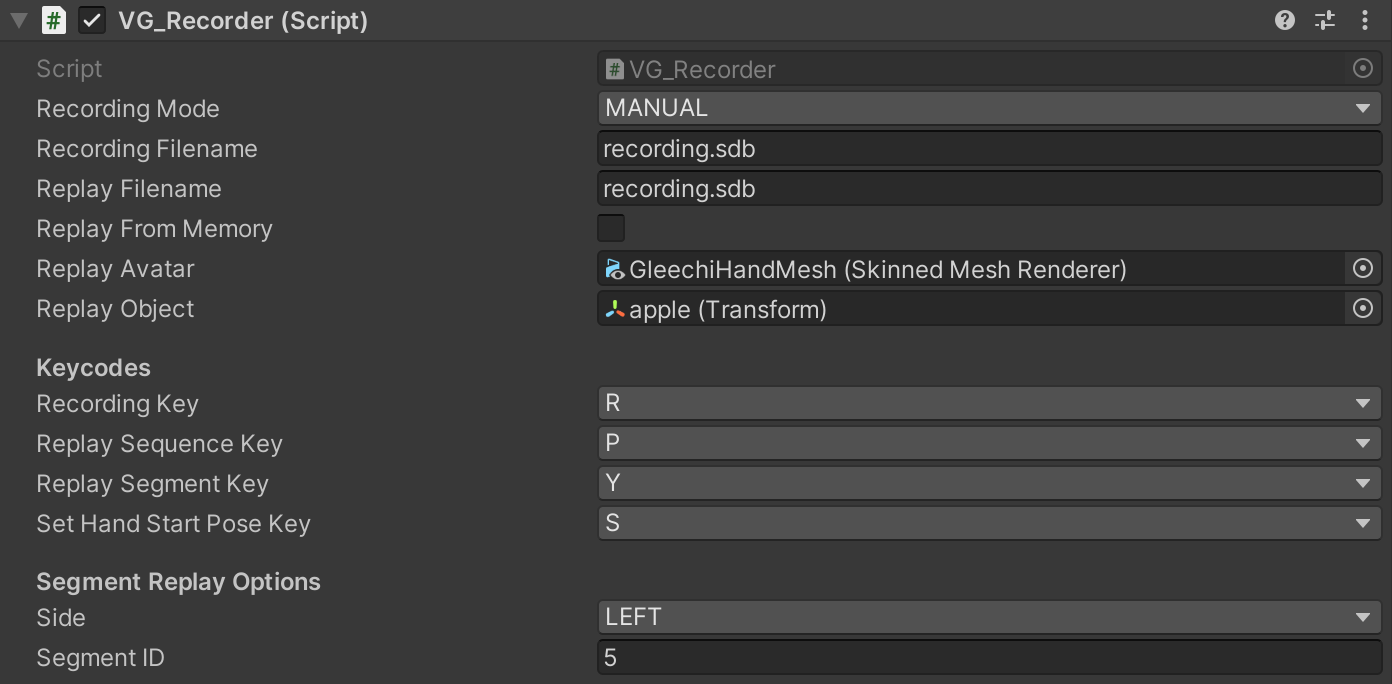
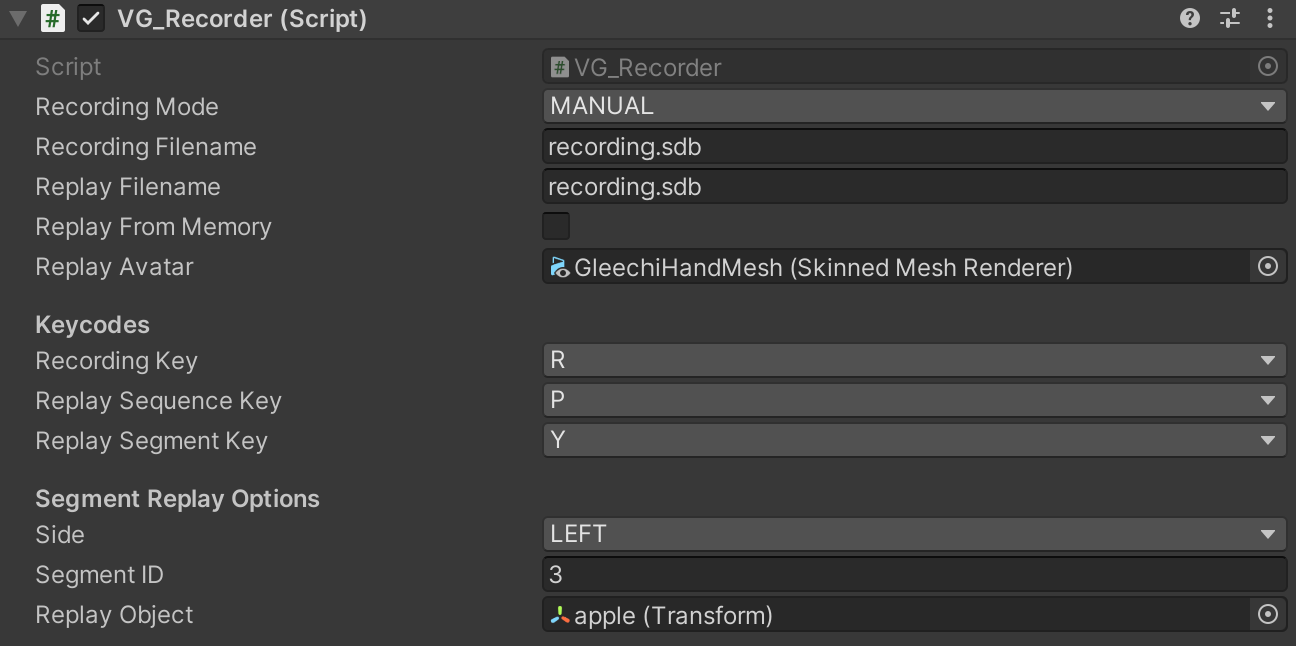
update record replay doc

diff --git a/pages/1.0.0/unity/unity_component_vgrecorder.md b/pages/1.0.0/unity/unity_component_vgrecorder.md
@@ -48,65 +48,66 @@ In order to support recording and replaying {% include tooltip.html tooltip="Sen
 In order to replay the recorded sensor data, a {% include tooltip.html tooltip="ReplayAvatar" text="replay avatar" %} needs to be created (see [Avatar Types](avatars.1.0.0.html#avatar-types)). 
 
 If _Recording Mode_ is "MANUAL", pressing the _Replay Sequence Key_ or _Replay Segment Key_ during play will replay the recorded sensor data.
-If _Recording Mode_ is "RECORD_ON_PLAY" replay will kickoff immediately once play starts. And replay is on full interaction sequence ([scene-specific](#full-and-scene-specific-interaction-replay) or [object-specific](#full-and-object-specific-interaction-replay) replay mode). 
+If _Recording Mode_ is "RECORD_ON_PLAY" replay will kickoff immediately once play starts. And replay is on [full sequence replay](#full-and-scene-specific-sequence-replay) mode. 
 
 When replay starts, normally sensor data will be loaded from the file with recorded data named after the provided _Replay Filename_. 
 If however _Replay From Memory_ is ticked, then replay will assume the recording is already done and saved in memory. 
 
-Depending on the options specified in VG_Recorder window, you can replay recorded sensor data in following three ways. 
+Depending on the options specified in VG_Recorder window, you can replay recorded sensor data in following two ways. 
 
-### Full and scene-specific interaction replay
+### Full and scene-specific sequence replay
 
-After you have recorded an {% include tooltip.html tooltip="InteractionSequence" text="interaction sequence" %}, you can fully replay it later. The _Replay Object_ has to be empty (None). In this replay mode, the hand movements will be replayed exactly as they were recorded in global coordinate frame. That means if you change positions of objects different from when they are during recording, the replaying hand will grasp empty air. 
+After you have recorded an {% include tooltip.html tooltip="InteractionSequence" text="interaction sequence" %}, you can fully replay it later. In this replay mode, the hand movements will be replayed exactly as they were recorded in global coordinate frame. That means if you change positions of objects different from when they are during recording, the replaying hand will grasp empty air. 
 
 This option is very handy when you want to record and replay for example an assembling task where interactions with multiple objects are involved. However you need to guaranttee 
 1. while replaying all objects are at the same location as when they are recorded,
 2. you use {% include tooltip.html tooltip="ReplayAvatar" text="replay avatar" %} with same hand models as the {% include tooltip.html tooltip="SensorAvatar" text="sensor avatar" %} used for recording.
 
 Pressing the _Replay Sequence Key_ will replay the recording provided in _Recording Filename_ from its start with the replay avatar. Pressing _Left Shift + Replay Sequence Key_ will pause and resume the replay. To create a second avatar to follow the recording, please follow the [instructions below](#how-to-create-another-pair-of-hands-for-replaying). 
-<!--In the video below, the green button triggers this replay.-->
 
-<!--{% include youtube.html id="o5F5tUb8RQM" caption="Record Replay 1." %}-->
+### Partial and object-specific segment replay
 
-### Full and object-specific interaction replay
-
-If you assign a _Replay Object_, the {% include tooltip.html tooltip="InteractionSequence" text="interaction sequence" %} will be replayed fully, but in the frame of the provided _Replay Object_. Also all the other objects that your hands have interacted with in the sequence will also be moved into the frame of the provided _Replay Object_. This means that it is assured that the selected _Replay Object_ - even after positional changes - will be interacted with as recorded. 
-
-This option is very handy when you want to record and replay for example an assembling task where interactions with multiple objects are involved. And when you replay it you don't want to be restricted by having to place the objects at exact locations when recorded. 
-
-{% include important.html content="When multiple objects are involved in a recording, then the objects other than the _Replay Object_ should not be physical objects since physical objects can not be placed accurately in the frame of the _Replay Object_ due to its reaction to physical forces after the placement."%}
-
-### Partial and object-specific interaction replay
-
-The third replay mode is to replay an {% include tooltip.html tooltip="InteractionSegment" text="interaction segment" %}. After you have recorded a full {% include tooltip.html tooltip="InteractionSequence" text="interaction sequence" %}, you can replay a specific part of it - an {% include tooltip.html tooltip="InteractionSegment" text="interaction segment" %} (specified by the _Segment ID_) - with a specified hand (_Side_) and object (_Replay Object_). 
+The second replay mode is to replay an {% include tooltip.html tooltip="InteractionSegment" text="interaction segment" %}. After you have recorded a full {% include tooltip.html tooltip="InteractionSequence" text="interaction sequence" %}, you can replay a specific part of it - an {% include tooltip.html tooltip="InteractionSegment" text="interaction segment" %} (specified by the _Segment ID_) - with a specified hand (_Side_) and object (_Replay Object_). 
 See [sensor record and replay](sensor_record_replay.1.0.0.html#background) to understand interaction segments.
 
 In the VG_Recoder, pressing the _Replay Segment Key_ will replay a specific 
 {% include tooltip.html tooltip="InteractionSegment" text="interaction segment" %} of the recording provided in _Recording Filename_ with the replay avatar. 
 Holding the _Left Shift button_ while pressing the _Replay Segment Key_ allows pause and resume of the replay. In the movie above, the blue button triggers this replay.
 
-{% include warning.html content="The current implementation is still not very user-friendly as you have to
-know which interaction combinations (of the “Replay Object” to play on, the avatar, the hand side, and the segment ID) are valid. You will get a list of available interaction segments in the console though that may help you out." %}
+This option is handy when you want to record the entire training sequence that involved multiple steps consisting of interaction with multiple objects, and later you just want to extract some individual {% include tooltip.html tooltip="InteractionSegment" text="interaction segment" %} to insert into a training authoring system as one step.
 
-This option is handy when you want to record the entire training sequence that involved multiple steps consisting of interaction with multiple objects, and later you just want to extract some individual {% include tooltip.html tooltip="InteractionSegment" text="interaction segment" %} to insert into a training authoring system as one step. 
+{% include tip.html content="A very useful feature of object-specific segment replay is that the object does not need to be placed at exact same location as when sensor data is recorded, because the recorded wrist pose will always be transformed to be centered around current pose of the replay object." %}
 
-{% include callout.html content="Note that since this partial replay option can only play interaction on one object by one hand, so when you want to replay two-hands interactions on one object at the same time, or two-hands interactions with multiple objects, you should choose the full replay options earlier. " %}
+Which segment is to be replayed is configured in _Segment Replay Options_:  
 
-## How to Query Start Pose of Hands
+| Option | Description |
+|-------|--------|--------|
+| Side| to which hand side the segment belongs |  
+| Segment ID |  which segment to replay | 
+| Replay Object | the transform of the object that has same shape as the object recorded in that segment | 
 
-You can use [GetReplayStartWristPose](virtualgrasp_unityapi.1.0.0.html#vg_controllergetreplaystartwristpose) to query the start pose of the wrists of the _replay avatar_ when replay is on [full and scene-specific interaction](#full-and-scene-specific-interaction-replay) or [full and object-specific interaction](#full-and-object-specific-interaction-replay). Note this does not work when replaying [partial and object-specific interaction](#partial-and-object-specific-interaction-replay).
+VG_Recorder image at the beginning of this page is configured to play segment #3 on left hand on object apple on the example recording shown below.
 
-As shown in the VG_Recorder GUI, _Set Hand Start Pose Key_ "S" demonstrate how this is done in the script:
-```js
-// Code in VG_Recorder.cs
-// To use GetReplayStartWristPose, need to first load recording and make sure avatar is enabled for replay.
-VG_Controller.LoadRecording(m_recordingFilename);
-// If m_replayObject is null will be full scene-specific replay, otherwise full object-specific replay.
-int replayingAvatarInstanceID = GetReplayAvatar();
-VG_Controller.GetReplayStartWristPose(replayingAvatarInstanceID, m_replayObject, out Vector3 p_left, out Quaternion q_left, out Vector3 p_right, out Quaternion q_right);
-````
 
-{% include callout.html content="Note that querying the start pose of hands does not affect later replaying the interaction sequence." %}
+
+
+        SensorDB has 2 hand interaction(s):
+         humanoid_handLeft1 has 10 interaction segments(s):
+           segment #0  has 462/0 frames/states
+           segment #1  has 934/0 frames/states, on object baseball
+           segment #2  has 169/0 frames/states
+           segment #3  has 568/0 frames/states, on object apple
+           segment #4  has 178/0 frames/states
+           segment #5  has 631/0 frames/states, on object baseball
+           segment #6  has 152/0 frames/states
+           segment #7  has 593/0 frames/states, on object pear
+           segment #8  has 40/0 frames/states
+           segment #9  has 358/0 frames/states, on object screwdriver
+         humanoid_handRight1 has 1 interaction segment(s):
+           segment #0  has 4085/0 frames/states
+
+
+{% include warning.html content="The current VG_Recorder GUI is still not very user-friendly since you need to visualize the summary of the recorded sensor data as above to pick the valid _Segment Replay Options_. And this summary is only shown in console output when you replay the full sequence once." %}
 
 ## How to Create another Pair of Hands for Replaying
 
@@ -117,11 +118,6 @@ If you want a {% include tooltip.html tooltip="ReplayAvatar" text="replay avatar
 
 {% include image.html file="unity/unity_vg_myvirtualgrasp_1_0_0.png" alt="In MyVirtualGrasp: Setup for another avatar to replay recorded data." caption="In MyVirtualGrasp: Setup for another avatar to replay recorded data." %}
 
-<!--
-## Videos
-
-{% include youtube.html id="7aRCZThEHOE" caption="Record Replay 2" %}
--->
 
 ## Sensor Recording for a built Android app
 

diff --git a/pages/1.0.0/knowledge/sensor_record_replay.md b/pages/1.0.0/knowledge/sensor_record_replay.md
@@ -22,18 +22,18 @@ frame by frame, and also automatically segment the frames into segments (we call
  
         SensorDB has 2 hand interaction(s):
          humanoid_handLeft1 has 10 interaction segments(s):
-           segment #0  has 462/462 frames/states
-           segment #1  has 934/934 frames/states, on object baseball
-           segment #2  has 169/169 frames/states
-           segment #3  has 568/568 frames/states, on object apple
-           segment #4  has 178/178 frames/states
-           segment #5  has 631/631 frames/states, on object baseball
-           segment #6  has 152/152 frames/states
-           segment #7  has 593/593 frames/states, on object pear
-           segment #8  has 40/40 frames/states
-           segment #9  has 358/358 frames/states, on object screwdriver
+           segment #0  has 462/0 frames/states
+           segment #1  has 934/0 frames/states, on object baseball
+           segment #2  has 169/0 frames/states
+           segment #3  has 568/0 frames/states, on object apple
+           segment #4  has 178/0 frames/states
+           segment #5  has 631/0 frames/states, on object baseball
+           segment #6  has 152/0 frames/states
+           segment #7  has 593/0 frames/states, on object pear
+           segment #8  has 40/0 frames/states
+           segment #9  has 358/0 frames/states, on object screwdriver
          humanoid_handRight1 has 1 interaction segment(s):
-           segment #0  has 4085/4085 frames/states
+           segment #0  has 4085/0 frames/states
 		   
 Above code block shows a display of one recording on an avatar with a pair of left and right humanoid hands. 
 You can see in this recording:
